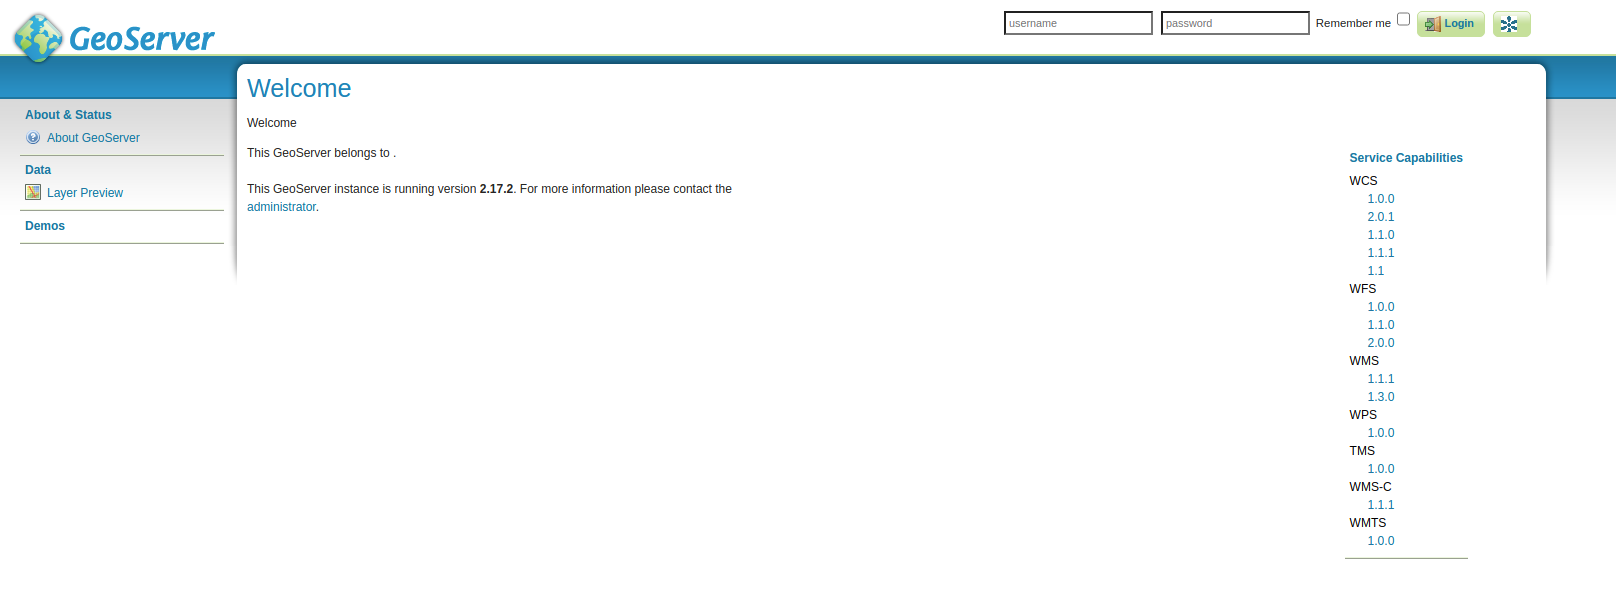
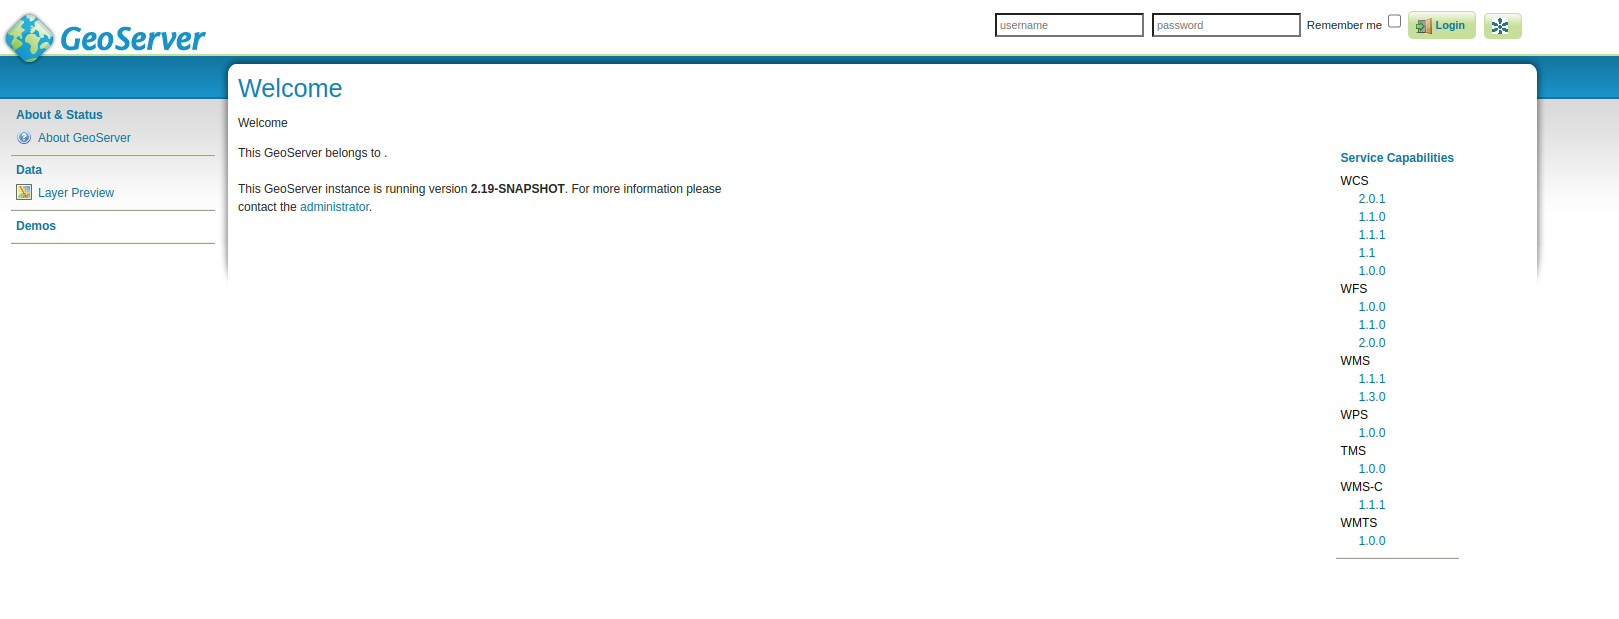
Update docker installation to 1.33.0 in docs

Changed region(s): [[0.0, 0.0, 1.0, 0.4368], [0.8045, 0.2496, 0.8973, 0.936]]

diff --git a/docs/installation/docker.md b/docs/installation/docker.md
@@ -4,7 +4,7 @@
 ## Introduction
 This guide describes how to install and configure a fresh setup of Cartoview to run it in Production mode using Docker on [**Ubuntu 20.04**](#for-ubuntu-2004) or [**Windows 10**](#for-windows-10).
 
-This part of the documentation describes installation of **Cartoview-1.31.0** which comes with **GeoNode-3.1** and **GeoServer-2.17.2**.
+This part of the documentation describes installation of **Cartoview-1.33.0** which comes with **GeoNode-3.3.0** and **GeoServer-2.19.x**.
 
 ---
 
@@ -65,24 +65,17 @@ Make sure that **Use Docker Compose V2** option is **unchecked** to avoid potent
 ## Cartoview Installation
 
 ### Running Cartoview Docker Services
-Download **cartoview-1.31.0** by cloning the repository and using the tag **v1.31.0**.
+Download **cartoview-1.33.0** by cloning the repository and using the tag **v1.33.0**.
 
 ```shell
-git clone -b v1.31.0 https://github.com/cartologic/cartoview.git
+git clone -b v1.33.0 https://github.com/cartologic/cartoview.git
 ```
 
-This will create a directory called ``cartoview``. Navigate inside it to install Cartoview with docker.
-
-Open `docker-compose.yml` and navigate to **cartoview** docker service and update as the following:
-```yaml
-# Change the line
-image: cartologic/cartoview:latest
-# With:
-image: cartologic/cartoview:1.31.0
-```
+This will create a directory called ``cartoview``. Navigate inside it to build and run Cartoview with docker.
 
 ```shell
 cd cartoview
+docker-compose build --no-cache
 docker-compose up -d
 ```
 
@@ -257,7 +250,7 @@ Congratulations! Cartoview is now installed successfully.
 
 You can upload layers, create maps, and install Cartoview apps to visualize these maps.
 
-Once Cartoview is installed, You can navigate to [http://10.5.0.4/apps/](http://10.5.0.4/apps/) to check and install all available apps from the [App Store](https://appstore.cartoview.net/).
+Once Cartoview is installed, You can navigate to the [apps](http://10.5.0.4/cv_apps/) page to check and install all available apps from the [App Store](https://appstore.cartoview.net/).
 
 After installing any app, you may need to restart cartoview docker services in order to install the app properly.
 ```shell
